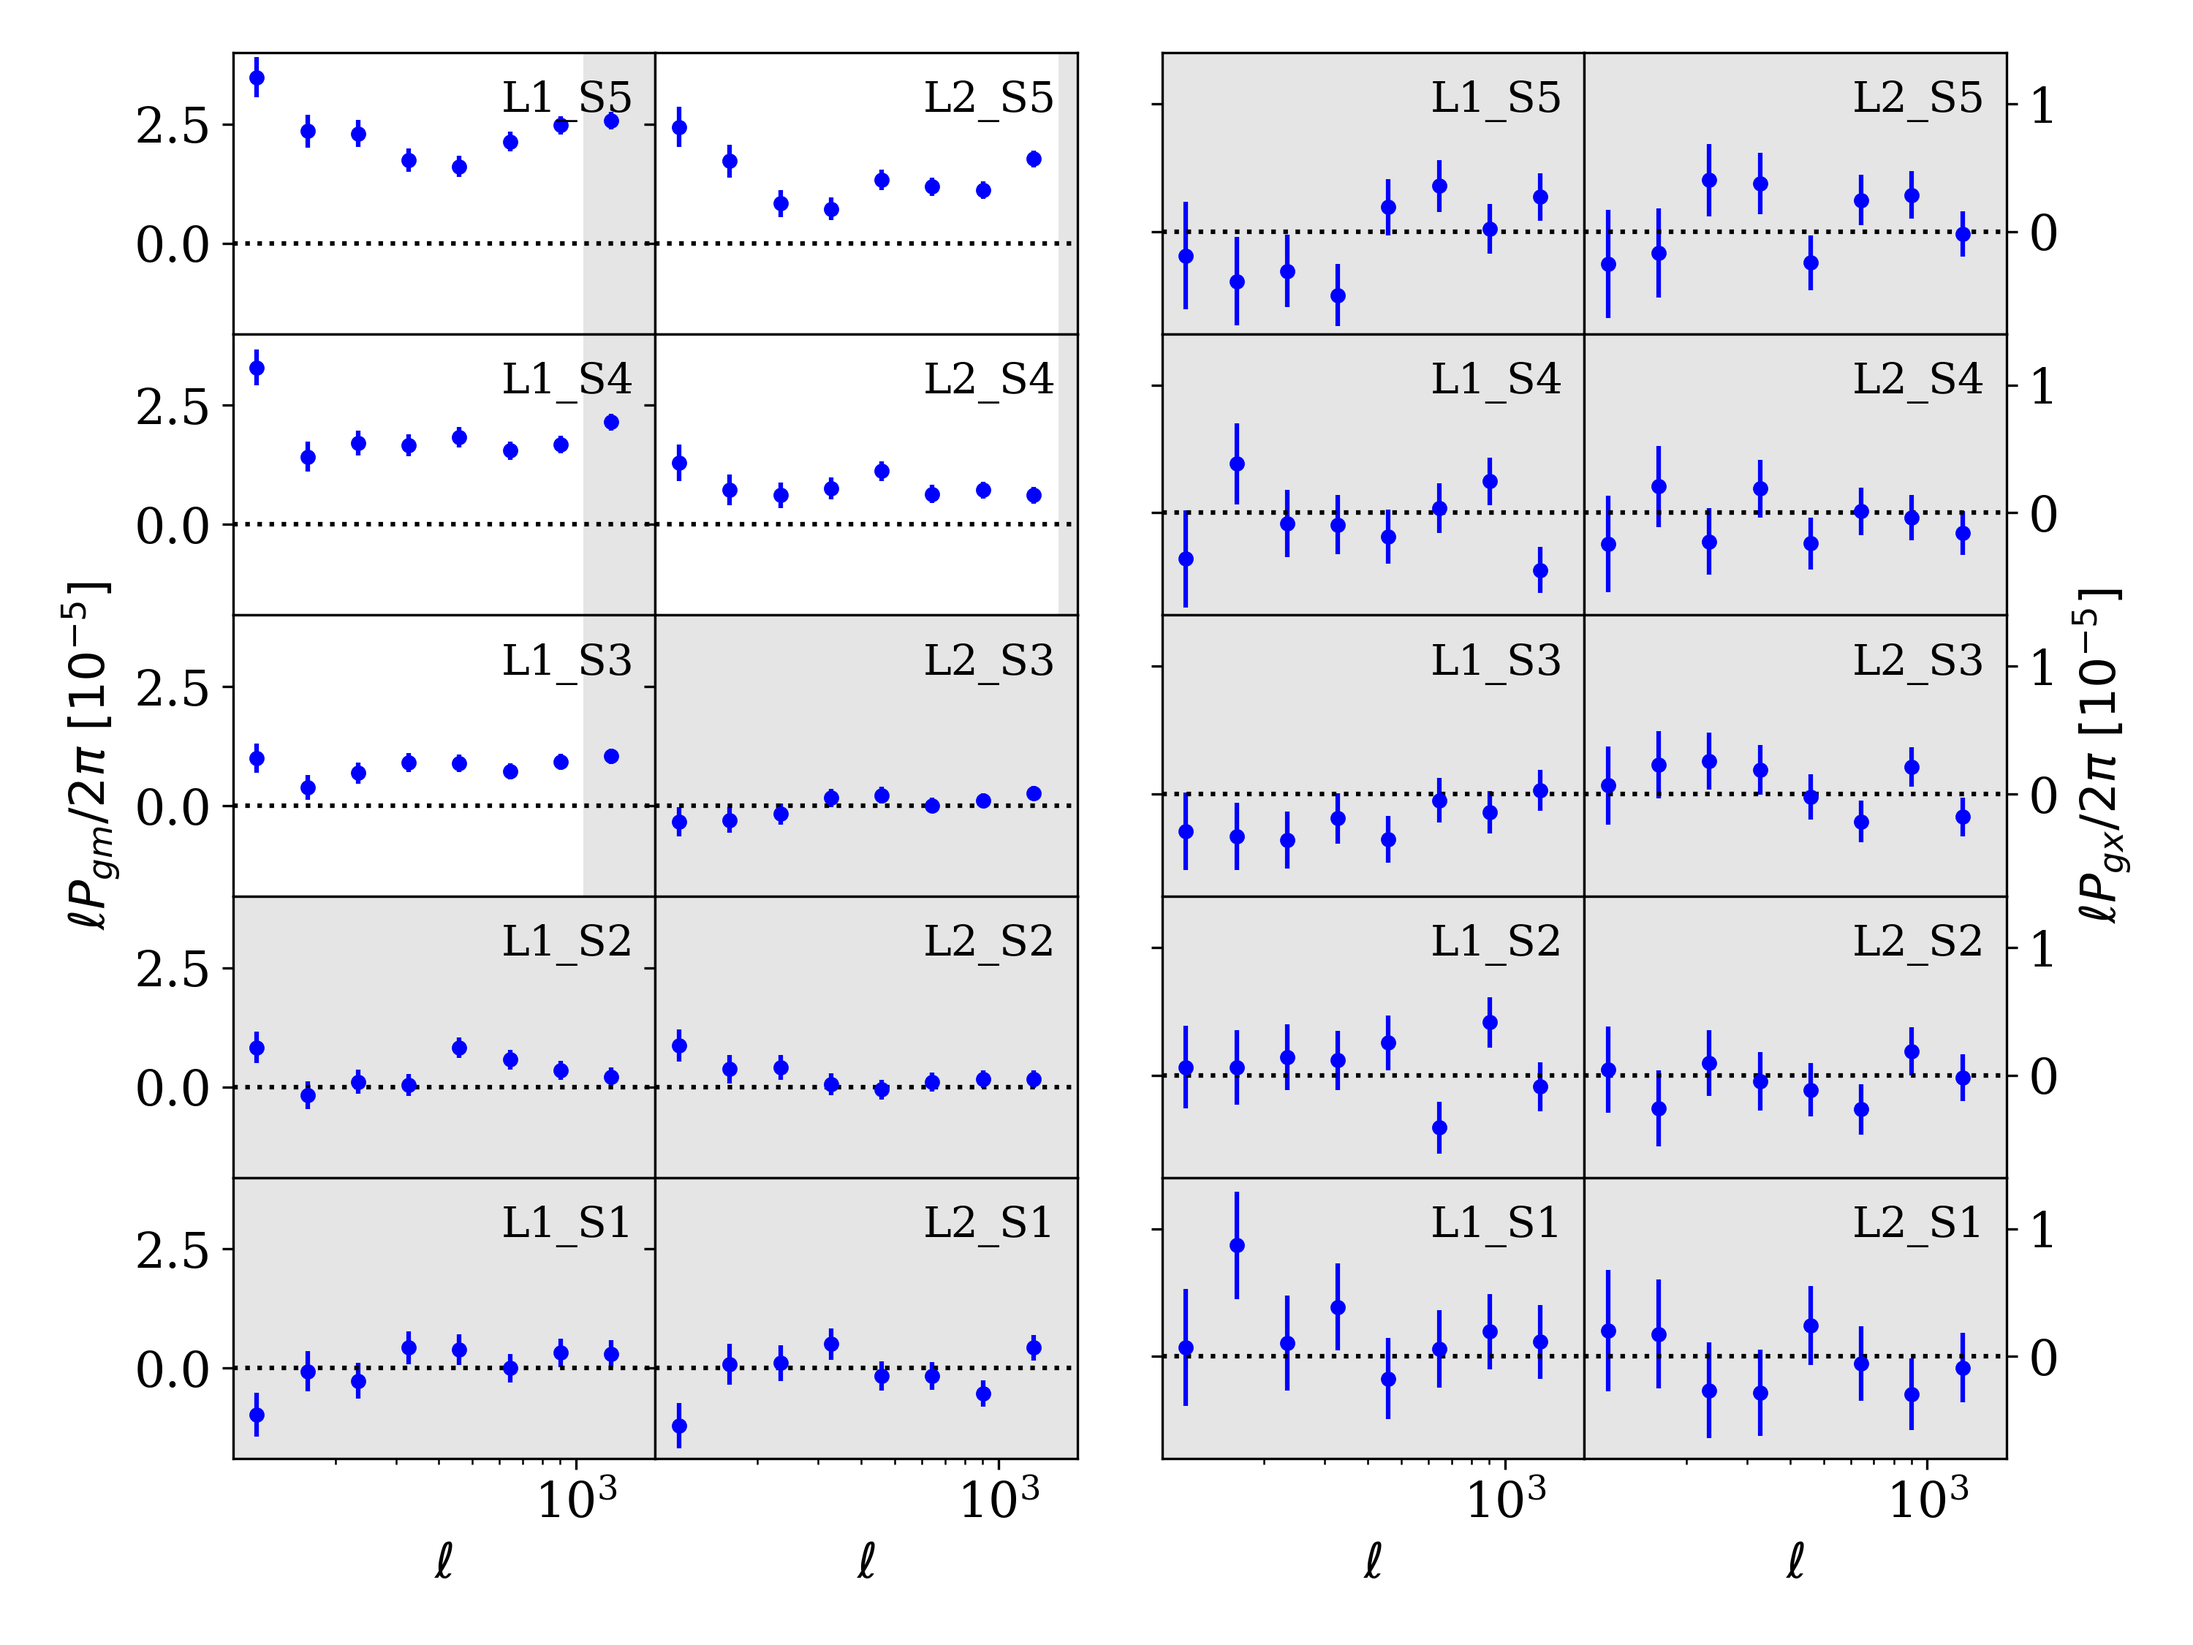
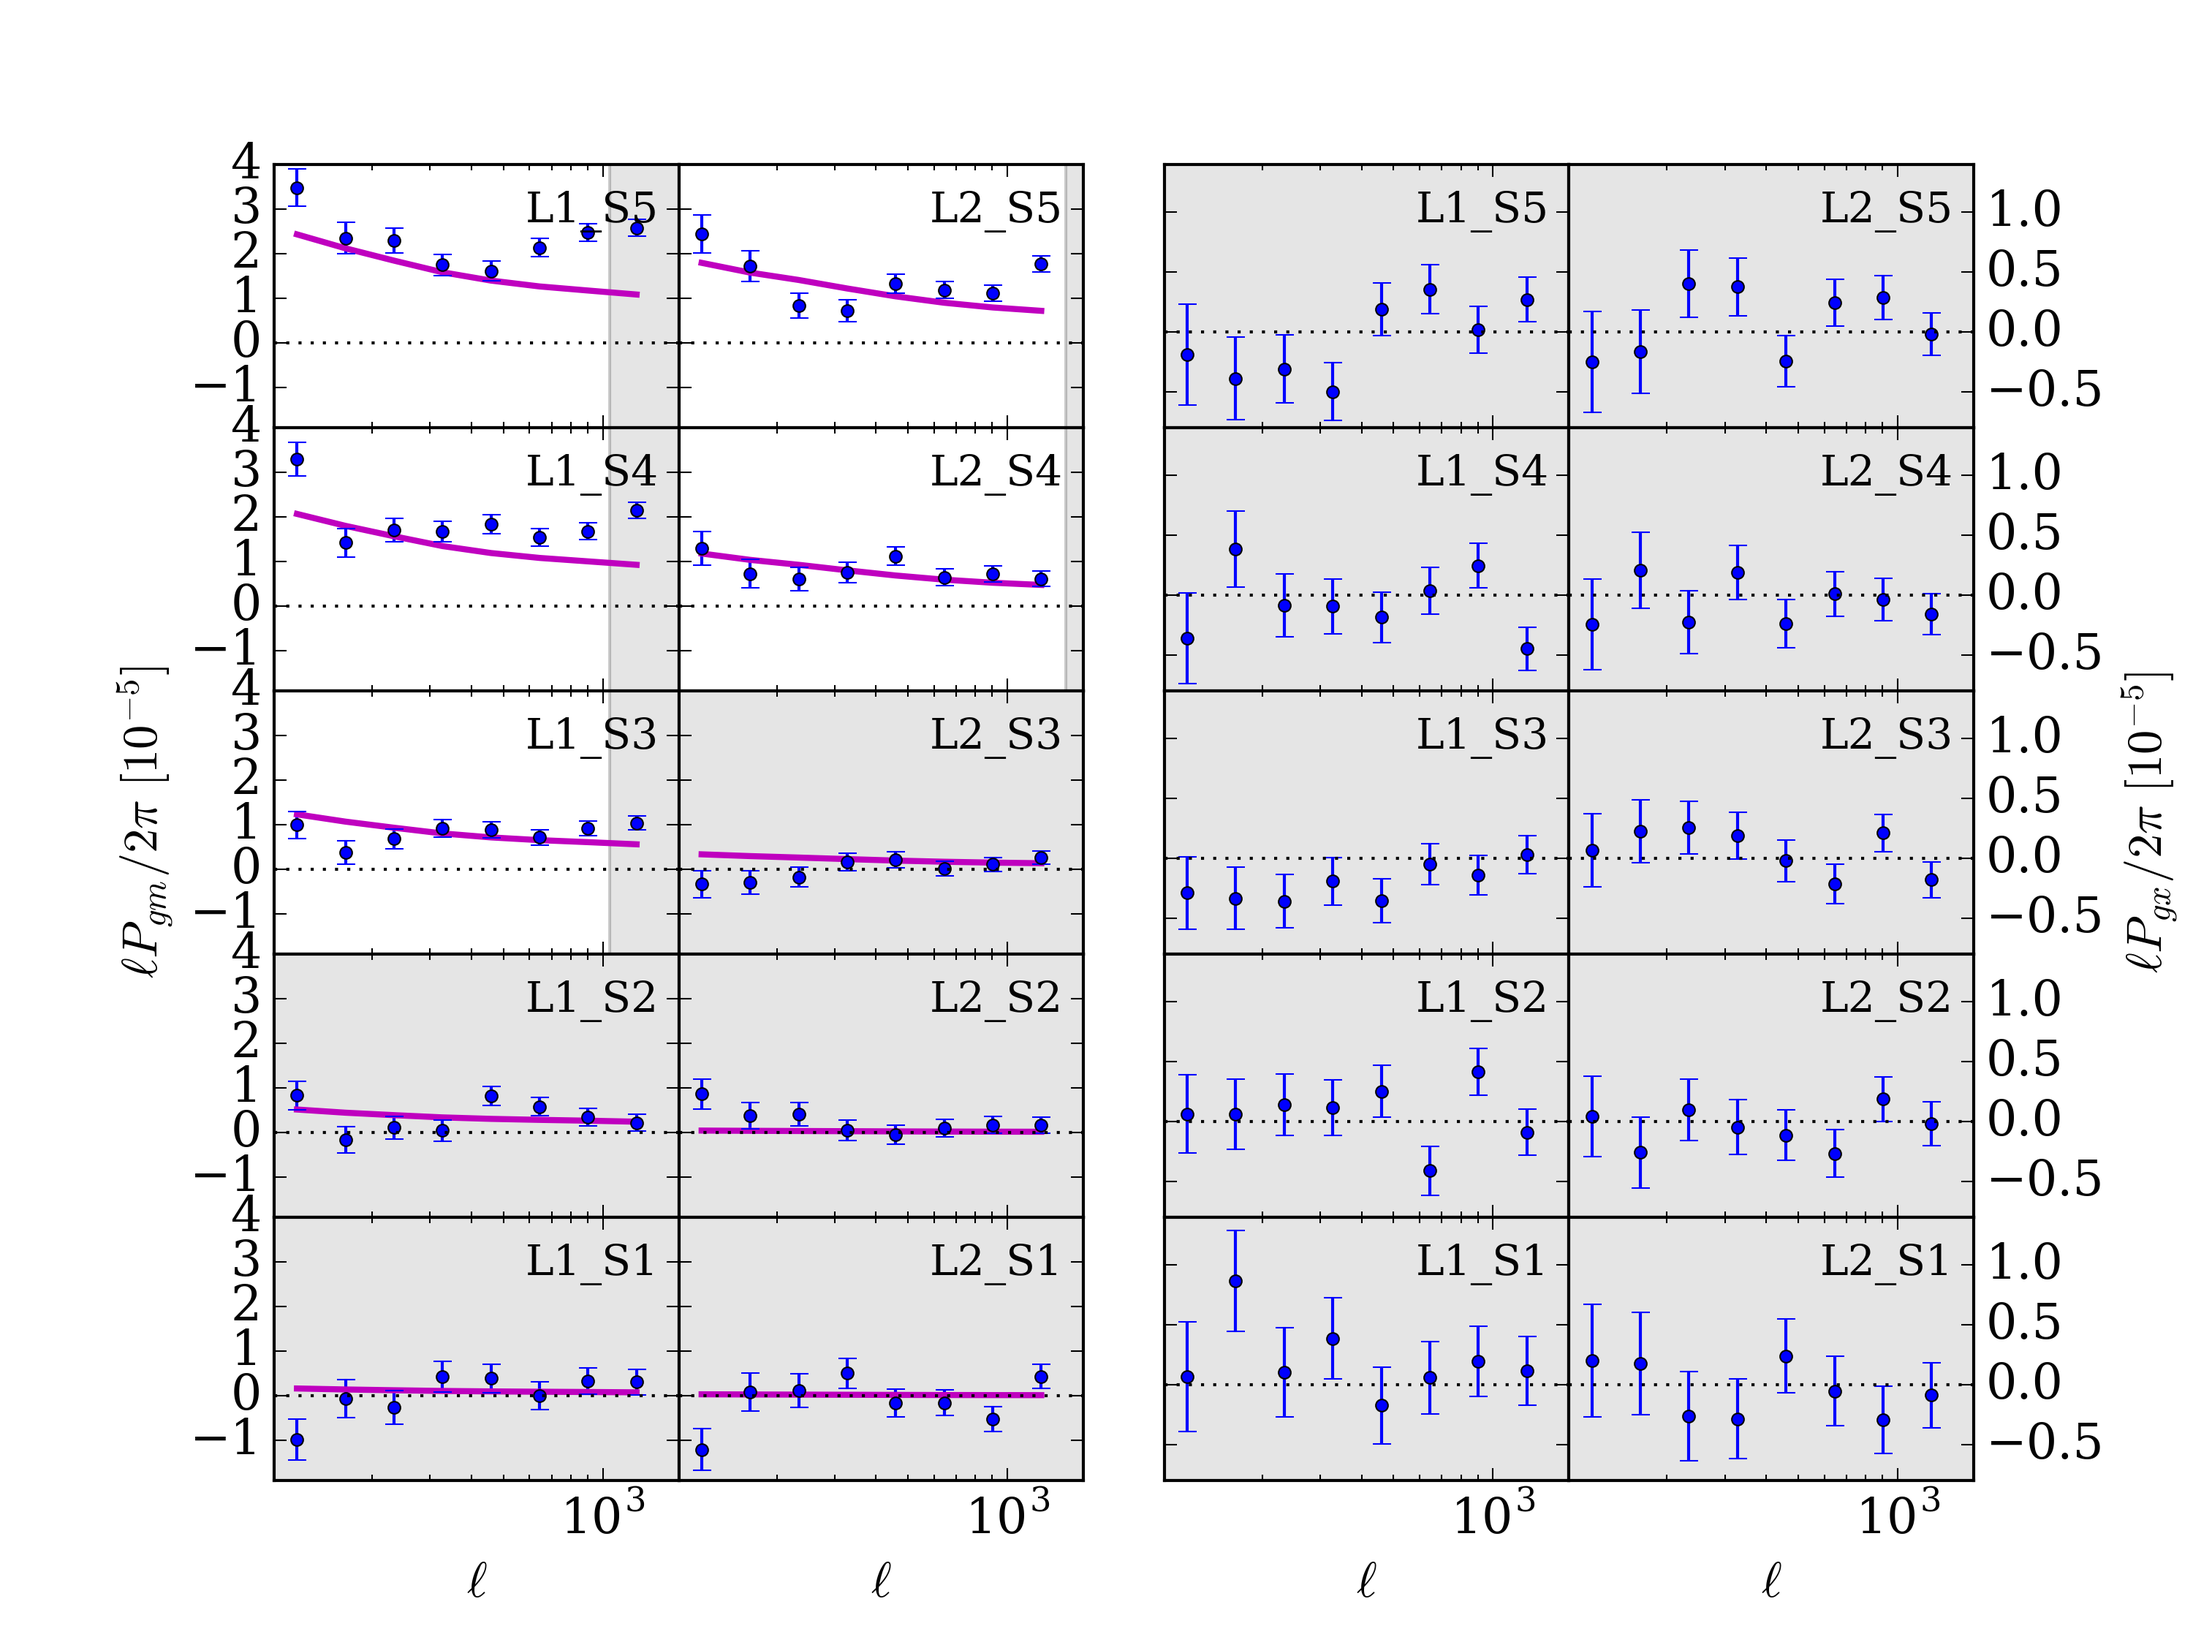
Updated theory curves

diff --git a/Data_Plots/Pgk/plot_Pgk_bandpowers.py b/Data_Plots/Pgk/plot_Pgk_bandpowers.py
@@ -65,7 +65,8 @@ filetail='nbins_8_Ell_100.0_1500.0_zbins'
 # theory curves
 #read in the expectation value for the Emode cosmic shear signal
 #MD='/home/cech/KiDSLenS/Cat_to_Obs_K1000_P1/'
-MD='/Users/macleod/CH_work/Cat_to_Obs_K1000_P1/'
+#MD='/Users/macleod/CH_work/Cat_to_Obs_K1000_P1/'
+MD='/Users/heymans/KiDS/Cat_to_Obs_K1000_P1/'
 
 #Set the x/y limits
 xmin=101
@@ -112,10 +113,10 @@ for iz in range(1,nlensbin+1):
         Bdiagerr=np.sqrt(np.diagonal(Bcov_izjz))
 
         # and read in the expected bandpower_shear_e are l^2 Cl_E/2pi
-        #BPtheory=np.loadtxt('%s/ForBG/outputs/test_output_S8_fid_test/bandpower_shear_e/bin_%d_%d.txt'%(MD,jz,iz))
-        #ellmin=np.loadtxt('%s/ForBG/outputs/test_output_S8_fid_test/bandpower_shear_e/l_min_vec.txt'%(MD))
-        #ellmax=np.loadtxt('%s/ForBG/outputs/test_output_S8_fid_test/bandpower_shear_e/l_max_vec.txt'%(MD))
-        #elltheory = (ellmax+ellmin)*0.5
+        BPtheory=np.loadtxt('%s/Predictions/KiDS_BOSS_test_A/bandpower_galaxy_shear/bin_%d_%d.txt'%(MD,iz,jz))
+        ellmin=np.loadtxt('%s/Predictions/KiDS_BOSS_test_A/bandpower_galaxy_shear/l_min_vec.txt'%(MD))
+        ellmax=np.loadtxt('%s/Predictions/KiDS_BOSS_test_A/bandpower_galaxy_shear/l_max_vec.txt'%(MD))
+        elltheory = ell #(ellmax+ellmin)*0.5
 
         #PLOT THE EMODES!
         #which grid cell do we want to plot this in?
@@ -123,7 +124,7 @@ for iz in range(1,nlensbin+1):
         grid_y_E=(5-jz)
         ax=axes[grid_y_E,grid_x_E]
 
-        #ax.plot(elltheory,BPtheory/elltheory*1e7,color='m',linewidth=2)
+        ax.plot(elltheory,BPtheory/elltheory*1e5,color='m',linewidth=2)
         ax.errorbar(ell, PEE/ell*1e5, yerr=Ediagerr/ell*1e5, fmt='o', markersize=4,color='b')
 
         # only label the subplots at the edges
@@ -206,7 +207,7 @@ axes[2,0].set_ylabel('$\ell P_{gm} / 2\pi \,\, [10^{-5}]$')
 for blankgrid in range(5):
     axes[blankgrid,2].set_visible(False)
 
-plt.tight_layout()
+#plt.tight_layout()
 
 outfile='Pgk_K1000_%s.png'%(LFVER)
 plt.savefig(outfile,dpi=300)
